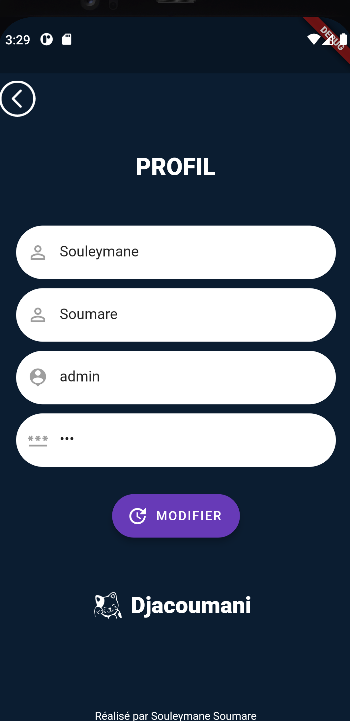
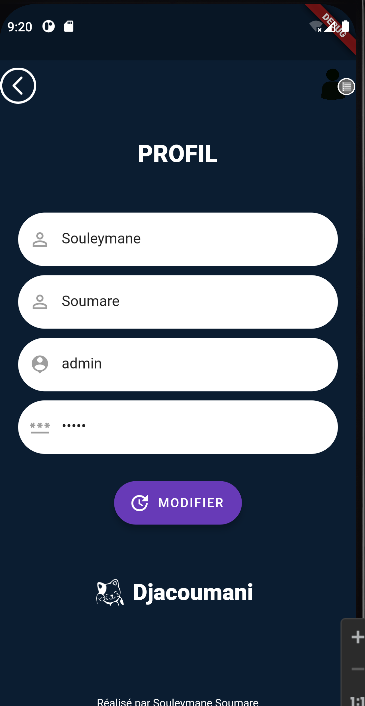
ajout-maquettes-et-quelques-pages

diff --git a/lib/pages/list_twitt_perso.dart b/lib/pages/list_twitt_perso.dart
@@ -1,0 +1,129 @@
+import 'package:flutter/material.dart';
+import 'package:projet_final/models/twitt.dart';
+import '../bd/bd.dart';
+import 'package:shared_preferences/shared_preferences.dart';
+
+class TwittPersoPage extends StatefulWidget {
+  @override
+  TwittPersoPageState createState() => TwittPersoPageState();
+}
+
+class TwittPersoPageState  extends State<TwittPersoPage> with SingleTickerProviderStateMixin{
+
+  late final AnimationController _controller = AnimationController(
+    duration: const Duration(seconds: 1),
+    vsync: this,
+  )..forward();
+  late final Animation<double> _animation = CurvedAnimation(
+    parent: _controller,
+    curve: Curves.fastOutSlowIn,
+  );
+  final key = GlobalKey<TwittPersoPageState>();
+
+  @override
+  void dispose() {
+    _controller.dispose();
+    super.dispose();
+  }
+
+  Future<SharedPreferences> _prefs  =SharedPreferences.getInstance();
+  int idShared=0;
+
+  @override
+  void initState(){
+    super.initState();
+    utilisateurSauvegarde();
+  }
+
+  Future<void> utilisateurSauvegarde() async{
+    final SharedPreferences _sharedpref = await _prefs;
+    setState(() {
+      idShared = _sharedpref.getInt("id")!;
+    });
+
+}
+
+  @override
+  Widget build(BuildContext context) {
+    return Container(
+      child: Column(
+        children: [
+          Flexible(
+            child: FutureBuilder<List<Twitts>>(
+                future: DB.instance.twitteById(idShared),
+                builder: (BuildContext context, AsyncSnapshot<List<Twitts>> snapshot) {
+                  if (!snapshot.hasData) {
+                    return Center( child: CircularProgressIndicator());
+                  }
+                  return snapshot.data!.isEmpty
+                      ? Center(child: Text("Aucun tweet avec ce compte pour l'instant ", style: TextStyle(
+                    fontSize: 16,
+                    color: Colors.white,
+                    fontWeight: FontWeight.bold,
+                  ),)):
+                  AnimatedList(
+                      key: key,
+                      scrollDirection: Axis.vertical,
+                      shrinkWrap: true,
+                      initialItemCount: snapshot.data!.length,
+                      itemBuilder: (context, index, animation) {
+                        Twitts tweet = snapshot.data![index];
+                        return SizeTransition(
+                          key: UniqueKey(),
+                          sizeFactor: _animation,
+                          child: Column(
+                            children: [
+                              Dismissible(
+                                //direction: DismissDirection.endToStart,
+                                background: Container(
+                                  color: Colors.red,
+                                  alignment: Alignment.centerRight,
+                                  padding: EdgeInsets.symmetric(horizontal: 10.0),
+                                  child: Icon(Icons.delete),
+                                ),
+                                key: ValueKey<int>(snapshot.data![index].id!),
+                                onDismissed: (direction) async {
+                                  if (direction == DismissDirection.startToEnd){
+                                    await DB.instance.delete(snapshot.data![index].id!);
+                                    snapshot.data!.remove(snapshot.data![index]);
+                                    setState(() {
+
+                                    });
+                                  }
+                                },
+                                child: Card(
+                                  margin: EdgeInsets.fromLTRB(0, 1.5, 0, 0),
+                                  child: ListTile(
+                                    hoverColor: Color(0xff58d1ff),
+                                    selectedTileColor: Color(0xff58d1ff),
+                                    onTap: () {
+                                    },
+                                    title: Text(tweet.twitt,
+                                        textAlign: TextAlign.center,
+                                        style: TextStyle(
+                                          color: Colors.black,
+                                        )
+                                    ),
+                                    leading: Icon(
+                                      Icons.person,
+                                      color: Colors.grey,
+                                    ),
+
+                                  ),
+                                ),
+                              ),
+                            ],
+                          ),
+                        );
+                      }
+                  );
+
+                }
+            ),
+          ),
+        ],
+      ),
+
+    );
+  }
+}

diff --git a/lib/pages/profilpage.dart b/lib/pages/profilpage.dart
@@ -8,6 +8,8 @@ import '../widgets/alertError.dart';
 import '../widgets/proprietaire.dart';
 import 'package:shared_preferences/shared_preferences.dart';
 
+import 'list_twitt_perso.dart';
+
 class ProfilPage extends StatefulWidget {
   @override
   ProfilPageState createState() => ProfilPageState();
@@ -51,20 +53,36 @@ class ProfilPageState  extends State<ProfilPage>{
         backgroundColor: Color(0xff0b1d31),
         body: Column(
           children: [
-            Padding(
-              padding: const EdgeInsets.fromLTRB(0, 70, 350, 0),
-              child: InkWell(
-                onTap: (){
-                  Navigator.pop(context);
-                },
-                child: Image
-                  (
-                  width: 40,
-                  height: 40,
-                  image: Svg('assets/retour.svg'),
-                  color: Colors.white,
+            Stack(
+              children: [
+                Padding(
+                  padding: const EdgeInsets.fromLTRB(0, 70, 350, 0),
+                  child: InkWell(
+                    onTap: (){
+                      Navigator.pop(context);
+                    },
+                    child: Image
+                      (
+                      width: 40,
+                      height: 40,
+                      image: Svg('assets/retour.svg'),
+                      color: Colors.white,
+                    ),
+                  ),
                 ),
-              ),
+                Padding(
+                  padding: const EdgeInsets.fromLTRB(350, 65, 0, 0),
+                  child: InkWell(
+                    onTap: (){
+                      Navigator.push(
+                          context,
+                          MaterialPageRoute(builder: (context) => TwittPersoPage())
+                      );
+                    },
+                    child: Image.asset("assets/user-contact-list.png", )
+                  ),
+                ),
+              ],
             ),
 
             Padding(

diff --git a/lib/bd/bd.dart b/lib/bd/bd.dart
@@ -102,9 +102,9 @@ class DB{
     return twitsList;
   }
 
-  Future<List<Twitts>> twitteById(int id) async {
+  Future<List<Twitts>> twitteById(int utilisateurId) async {
     Database db = await instance.database;
-    var twits = await db.rawQuery("SELECT * FROM twitte WHERE id = '$id'");
+    var twits = await db.rawQuery("SELECT * FROM twitte WHERE utilisateurId = '$utilisateurId'");
     List<Twitts> twitsList = twits.isNotEmpty
         ? twits.map((c) => Twitts.fromMap(c)).toList()
         : [];
